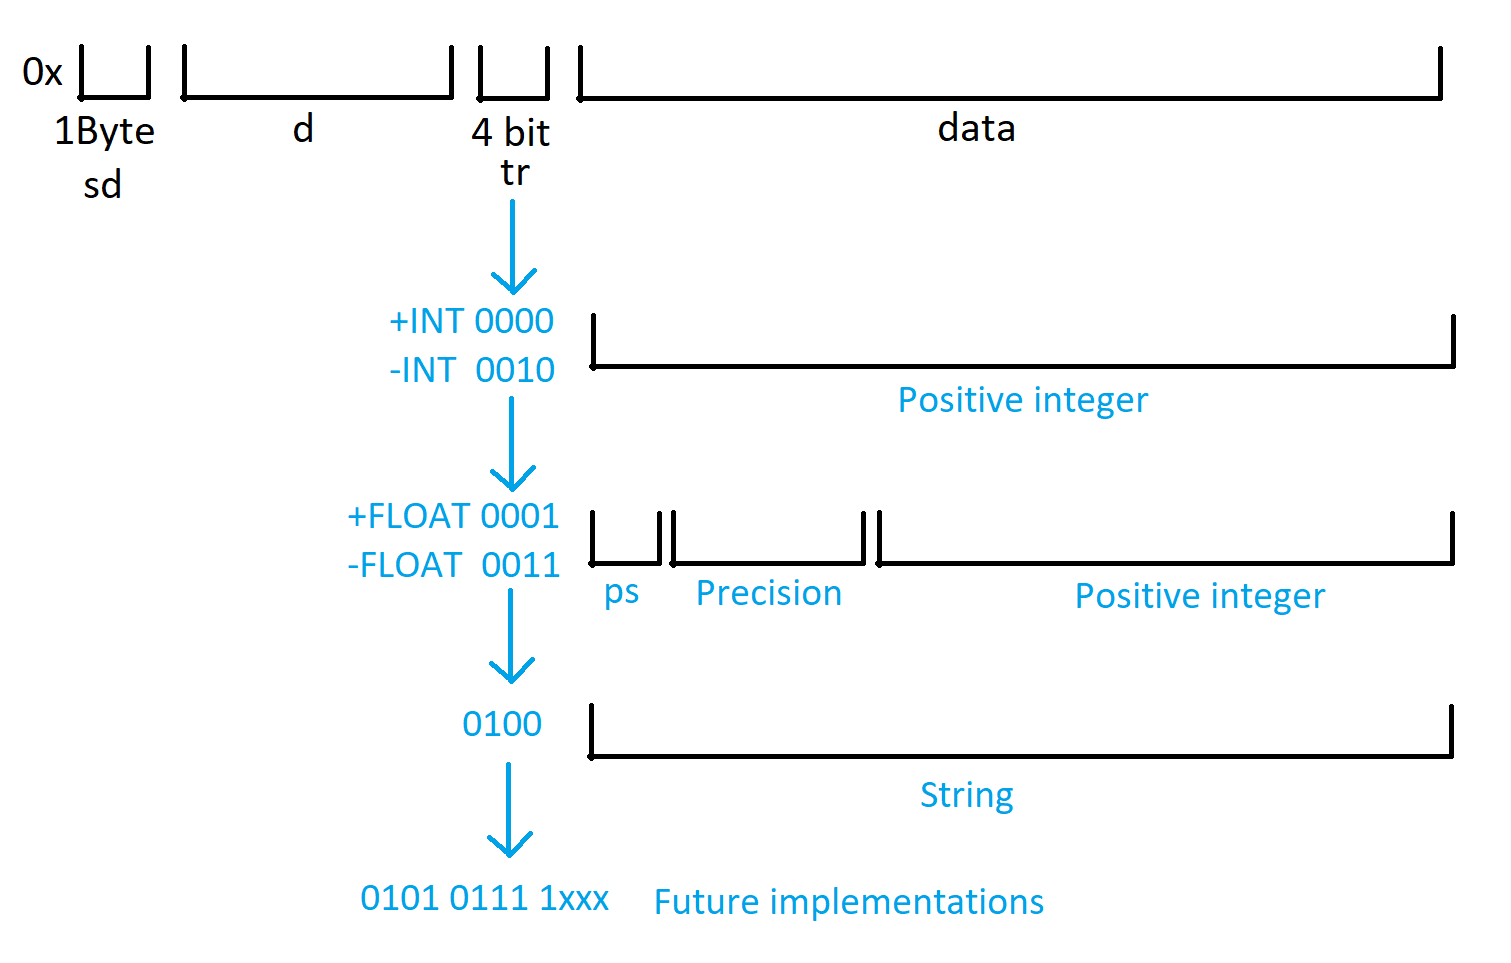
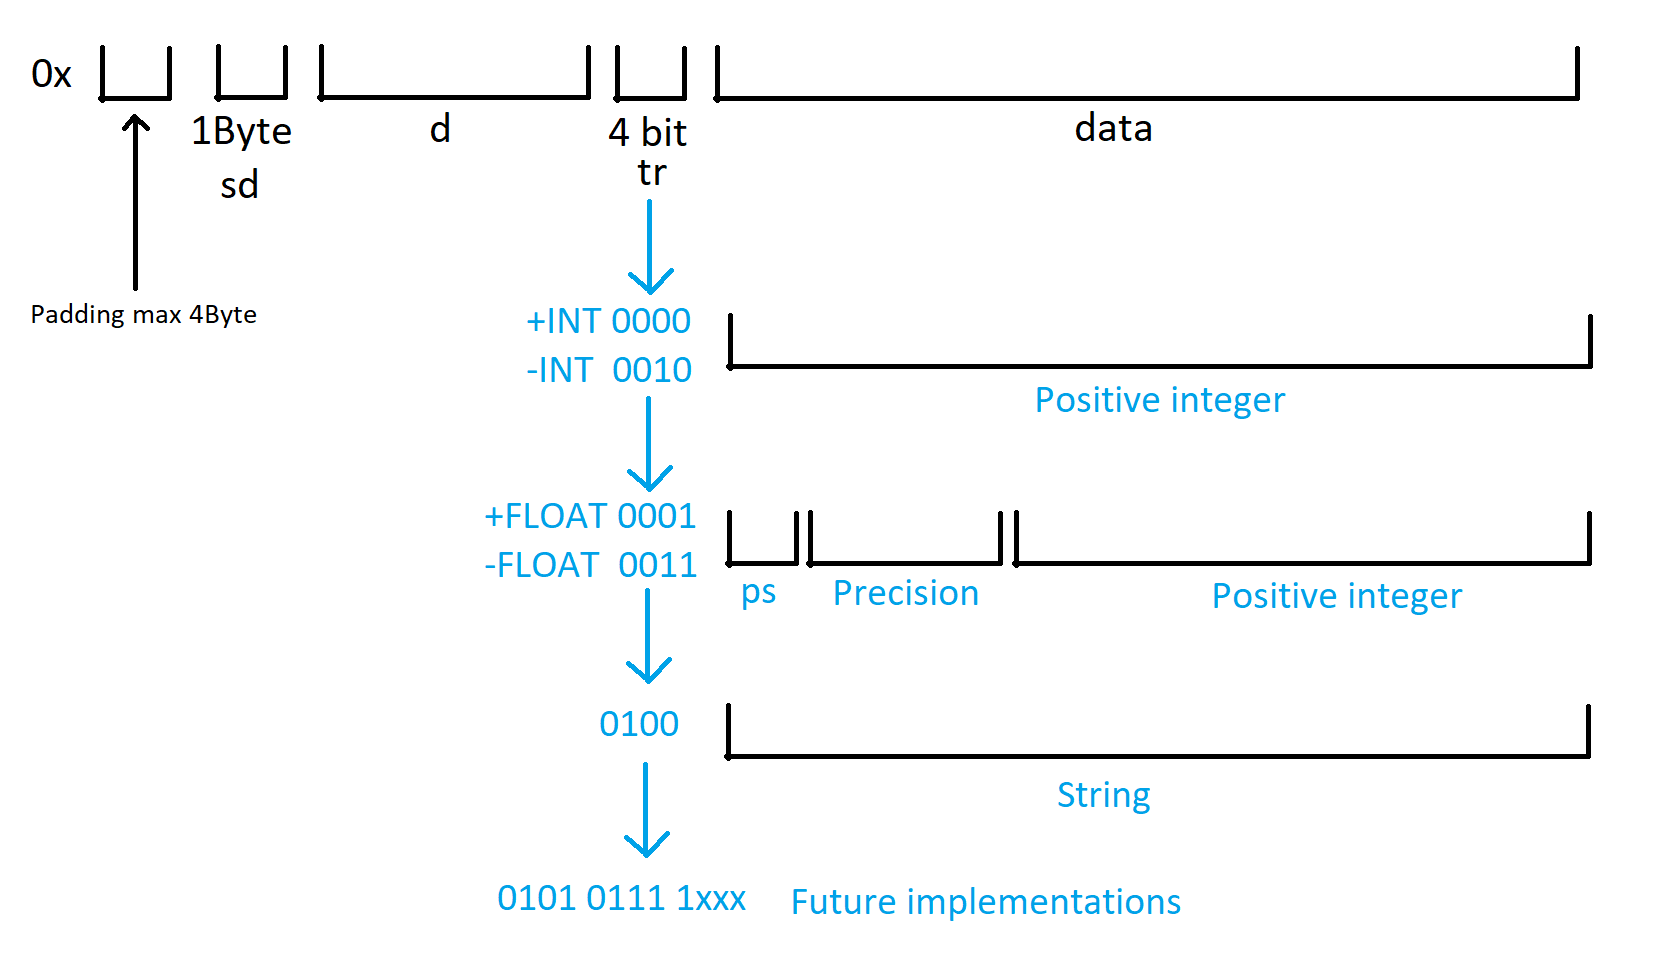
upgrade EncoderManual, new DApp deploy on-chain

diff --git a/DApp/src/component/WorkerMock.ts b/DApp/src/component/WorkerMock.ts
@@ -1,27 +1,26 @@
 import { promises as fsPromises } from 'fs';
-import QueryParser from "./QueryParser";
+// import QueryParser from "./QueryParser";
 import IWorker from "./IWorker";
 import DirectoriesCollector from "./DirectoriesCollector";
-import Desmosdk from "./Desmosdk";
+// import Desmosdk from "./Desmosdk";
 import { collect, consensus } from "./consensus/dataCollector";
 
 import EncoderManual from "./encoder/EncoderManual";
 
-import ISourceValues from "../model/ISourceValues";
-import StringSourceValues from "../model/StringSourceValues";
+// import ISourceValues from "../model/ISourceValues";
+// import StringSourceValues from "../model/StringSourceValues";
 import NumberSourceValues from "../model/NumberSourceValues";
-import BoolSourceValues from "../model/BoolSourceValues";
-import ISource from '../model/ISource';
-import Config from "../const/Config";
+// import BoolSourceValues from "../model/BoolSourceValues";
+// import ISource from '../model/ISource';
+// import Config from "../const/Config";
 import MockSourceNumb from "../MockSourceNumb";
 import Result from "../model/Result";
 
-const run_test = function (sources: Array<NumberSourceValues>, cb: (ris: Result) => void) {
+
+const run_test = function (sources: Array<NumberSourceValues>, cb: (ris: Result) => void):void {
   
   collect(sources,
       (s) => {
-
-          
           console.log("\n###########################Sources after collect");
           for(var x in s){
               console.log(s[x].toInfoString())
@@ -63,46 +62,57 @@ export default class Worker implements IWorker {
   }
 
   work(query: string, requestID: string) {
-    if (this.iexecOut.trim().length === 0) {
-      this.err("No IEXEC_OUT!");
-    }
-    const valueMatrix = [
-      [2.11, 2.20, 2.52, 2.75],
-      [2.2, 2.44, 2.44, 2.80],
-      [2.4, 2.2, 2.4, 2.4],
-      [2.15, null, 2.82, 2.99],
-      [2.14, 2.1, 2.3, 2.67],
-      [null, 2.66, 2.33, 2.71],
-      [3.14, 2.1, 0.3, 2.99],
-      [2.1, 2.33, 2.99, 2.71],
-    ];
-    const sources = new Array<NumberSourceValues>();
-    for (let x = 0; x < valueMatrix.length; x++) {
-        sources.push(new NumberSourceValues(new MockSourceNumb("Source_" + x, x, valueMatrix[x])))
-    }
-
-    run_test(sources,(result)=>{
-      console.log("############## Consensus result ##############");
-      console.log(result.toString());
-      console.log("##############################################");
-      //###########################Ecode result
-      var callback_data = result.getEncodedValue(new EncoderManual());
-  
-      //###########################Write result
-      const computedJsonObj = {
-        'callback-data': callback_data
-      };
-  
-      console.log("computedJsonObj", computedJsonObj);
-      if (this.cb !== undefined) {
-        this.cb(computedJsonObj);
-      } else {
-        fsPromises.writeFile(
-          `${this.iexecOut}/computed.json`,
-          JSON.stringify(computedJsonObj),
-        );
+      if (this.iexecOut.trim().length === 0) {
+        this.err("No IEXEC_OUT!");
       }
-    });
+      // const valueMatrix = [
+      //   [10.11, 10.20, 10.52, 10.75],
+      //   [10.10, 10.44, 10.44, 10.80],
+      //   [10.4, 10.10, 10.4, 10.4],
+      //   [10.15, null, 10.82, 10.99],
+      //   [10.14, 10.1, 10.3, 10.67],
+      //   [null, 10.66, 10.33, 10.71],
+      //   [3.14, 10.1, 0.3, 10.99],
+      //   [10.1, 10.33, 10.99, 10.71],
+      // ];
+      const valueMatrix = [
+        [2.11, 2.20, 2.52, 2.75],
+        [2.2, 2.44, 2.44, 2.80],
+        [2.4, 2.2, 2.4, 2.4],
+        [2.15, null, 2.82, 2.99],
+        [2.14, 2.1, 2.3, 2.67],
+        [null, 2.66, 2.33, 2.71],
+        [3.14, 2.1, 0.3, 2.99],
+        [2.1, 2.33, 2.99, 2.71],
+      ];
+      const sources = new Array<NumberSourceValues>();
+      for (let x = 0; x < valueMatrix.length; x++) {
+          sources.push(new NumberSourceValues(new MockSourceNumb("Source_" + x, x, valueMatrix[x])))
+      }
+  
+      run_test(sources,(result)=>{
+        console.log("############## Consensus result ##############");
+        console.log(result.toString());
+        console.log("##############################################");
+        //###########################Ecode result
+        var callback_data = result.getEncodedValue(new EncoderManual());
+    
+        //###########################Write result
+        const computedJsonObj = {
+          'callback-data': callback_data
+        };
+    
+        //console.log("computedJsonObj", computedJsonObj);
+        if (this.cb !== undefined) {
+          this.cb(computedJsonObj);
+        } else {
+          fsPromises.writeFile(
+            `${this.iexecOut}/computed.json`,
+            JSON.stringify(computedJsonObj),
+          );
+        }
+      });
+    
   
   }
 

diff --git a/DApp/src/component/encoder/EncoderManual.ts b/DApp/src/component/encoder/EncoderManual.ts
@@ -3,7 +3,7 @@ import Conf from "../../const/Config";
 import Types from "../../const/Types";
 import CommonEncoder from "./common";
 
-const hexEncode = function(str:string){
+const hexEncode = function(str:string):string{
     var hex, i;
 
     var result = "";
@@ -15,7 +15,7 @@ const hexEncode = function(str:string){
     return result
 }
 
-const hexDecode = function(str:string){
+const hexDecode = function(str:string):string{
     var j;
     var hexes = str.match(/.{1,4}/g) || [];
     var back = "";
@@ -36,6 +36,15 @@ export default class EncoderManual implements IEncoder{
     constructor() {
         this.sources= new Array<{ sourceIndex: number, reward: number }>();
         this.encoded="";
+    }
+
+    computePadding(ecoded:string):string{
+        const needpadding= 4-(ecoded.length%4);
+        var padding = ""+needpadding;
+        for(let x =0;x<needpadding-1;x++){
+            padding+="0";
+        }
+        return padding+ecoded;
     }
 
     setSources(sources: Map<number,number>): void {
@@ -94,27 +103,30 @@ export default class EncoderManual implements IEncoder{
             numberHex=sizePrecisionHex+precisionHex+sanitizzeNumberValue.toString(16);
         } 
         var typeHex = type.toString(16);
-        return this.encoded+typeHex+numberHex;
+        return this.computePadding(this.encoded+typeHex+numberHex);
     }
 
     encodeString(stringValue: string): string {
         var type = Types.STRING;
         var typeHex = type.toString(16);
         // console.log("dataEncoded: ", hexEncode(stringValue)); //ok
-        return this.encoded+typeHex+hexEncode(stringValue);
+        return this.computePadding(this.encoded+typeHex+hexEncode(stringValue));
     }
 
     decode(callbackData: string): any {
 
-        const size =parseInt(callbackData[0]+callbackData[1],16);
+        //padding
+        const padding = Number(callbackData[0]);
+
+        const size =parseInt(callbackData[padding]+callbackData[padding+1],16);
         // console.log("size",size); //ok
-        const directoryList= CommonEncoder.generalDecodeSources(callbackData);
+        const directoryList= CommonEncoder.generalDecodeSources(callbackData.substring(padding));
         console.log("directoryList decoded: ", directoryList); //ok
 
-        const type = parseInt(callbackData[size*2+2],16);
+        const type = parseInt(callbackData[padding+size*2+2],16);
         // console.log("type: ", type); //ok
 
-        const dataEncoded=callbackData.substring(size*2+3,callbackData.length);
+        const dataEncoded=callbackData.substring(padding+size*2+3);
         // console.log("dataEncoded: ", dataEncoded); //ok
         var value:any;
         if(type===Types.NEG_FLOAT || type===Types.POS_FLOAT){

diff --git a/DApp/support/decoder.ts b/DApp/support/decoder.ts
@@ -2,4 +2,4 @@
 import EncoderManual from "../src/component/encoder/EncoderManual";
 
 const em = new EncoderManual();
-console.log(em.decode("022ae2112e9"));
+console.log(em.decode("1022ad2112e9"));

diff --git a/DApp/src/component/encoder/common.ts b/DApp/src/component/encoder/common.ts
@@ -91,6 +91,7 @@ function generalDecodeSources(hex:string):Array<number>{
     // }
 }
 
+
 export default {
 
     unBuild8Hex:unBuild8Hex,

diff --git a/DApp/README.md b/DApp/README.md
@@ -55,4 +55,5 @@ Run All test with Jest (WARNING: WAM and Zion need to be up) (RECOMMENDED)
 
 8.  iexec order sign --app && iexec order publish --app
 
-iexec app run --watch --chain viviani --trust 0 --callback 0x5e79D4ddc6a6F5D80816ABA102767a15E6685b3e
+iexec app run --watch --chain viviani --trust 0 --callback 0x0f04bc57374f9f8c705636142ceff953e33a7249 
+iexec app run --chain viviani --trust 0 --callback 0x0f04bc57374f9f8c705636142ceff953e33a7249 
